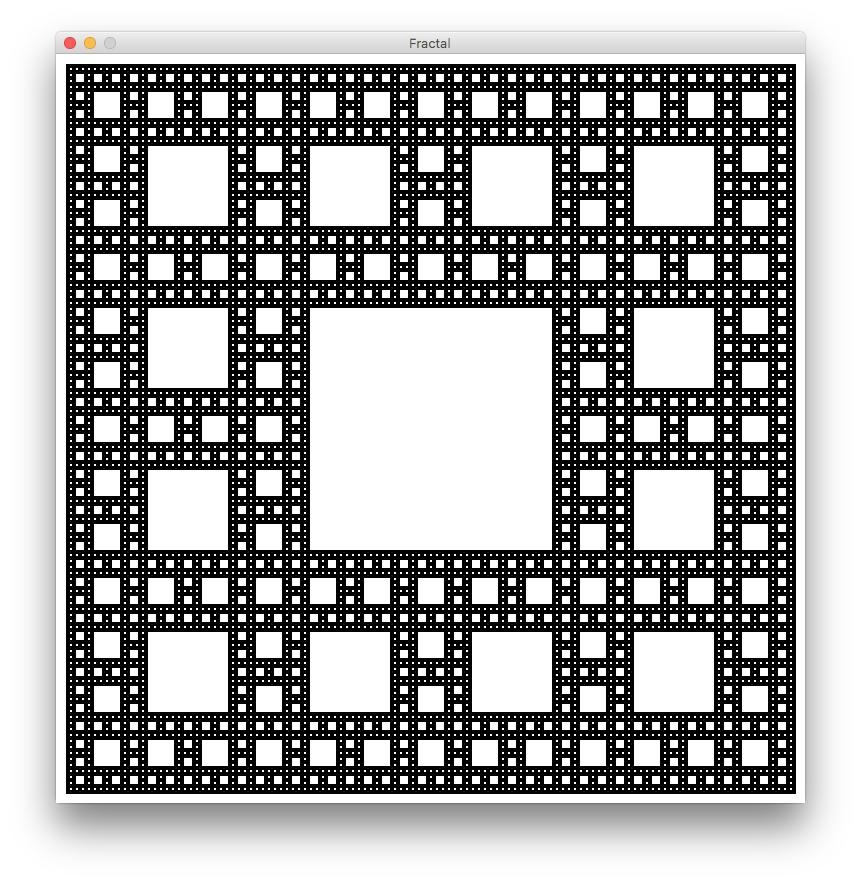
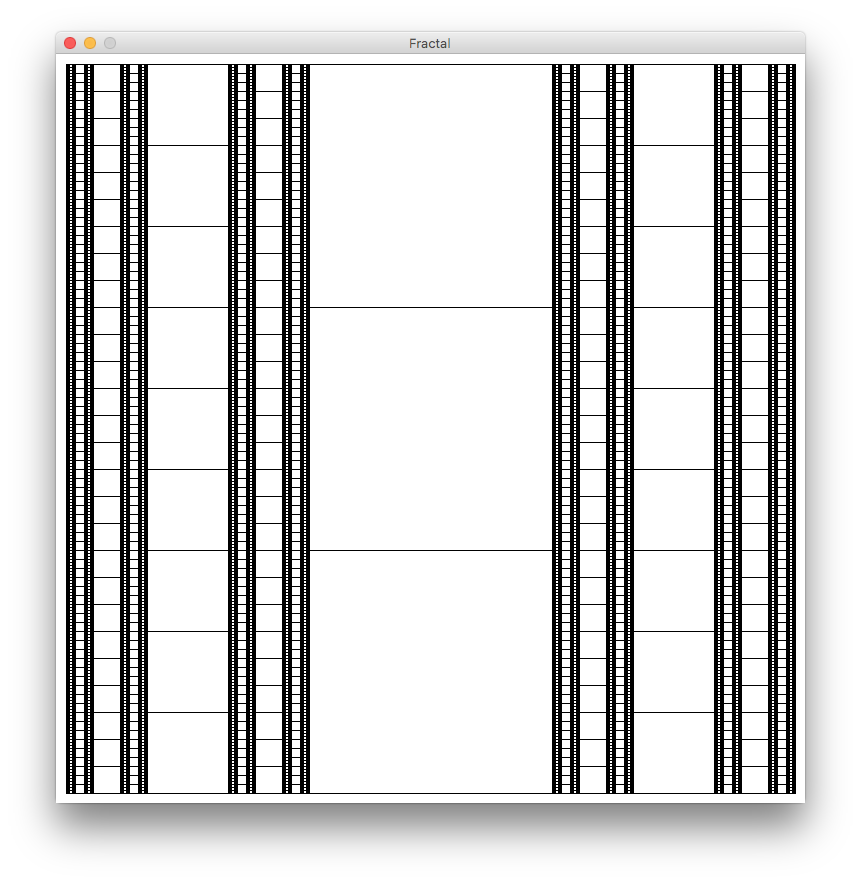
edit README.md

Changed region(s): [[0.0906, 0.0612, 0.9361, 0.9173]]

diff --git a/README.md b/README.md
@@ -1,5 +1,8 @@
 # Fractal
 
+## 環境
+Proseccing 3.3.6 を使用。
+
 ## 使いかた
 - 画面上の何処でもよいのでクリックすると、1段階くり抜かれます。白いところがくり抜かれたところ。
 - くりぬける最大数があります。(それ以上くり抜くと模様が見えないため)
@@ -23,7 +26,7 @@ if((i%2 == 1 && j%2 == 0) || (i%2 == 0 && j%2 == 1))
 
 ### 使用例
 
-- 以下の条件の場合
+- 以下の条件の場合(デフォルト)
 
 ```java
 if((i%2 == 1 && j%2 == 0) || (i%2 == 0 && j%2 == 1))
@@ -33,7 +36,7 @@ if((i%2 == 1 && j%2 == 0) || (i%2 == 0 && j%2 == 1))
 
 - 以下の条件の場合
 ```java
-if((i%2 == 1 && j%2 == 1) || (i%2 == 1 && j%2 == 1))
+if((i%2 == 1 && j%2 == 0) || (i%2 == 1 && j%2 == 1))
 ```
 ![Figure2](imgs/figure2.png)
 
